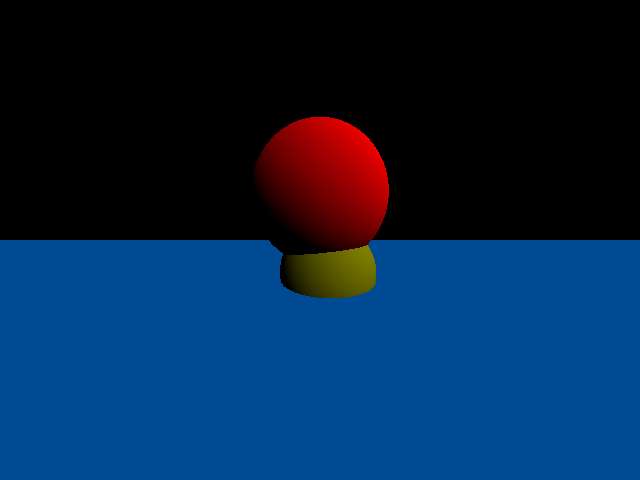
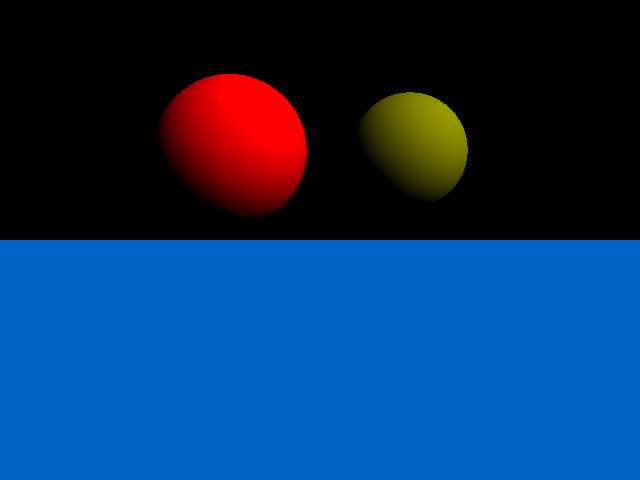
Correct perspective

diff --git a/raytracer/source/common/World.cpp b/raytracer/source/common/World.cpp
@@ -36,7 +36,7 @@ void World::RenderScene()
 {
     RGBColor pixel_color;
     Ray ray;
-    double cam_zw = 100.0;
+    double cam_zw = 800.0;
     double vp_zw = 0.0;
     double x, y;
     
@@ -72,12 +72,12 @@ void World::Build()
     sphere.SetCenter(glm::vec3(0.f, 0.f, 0.f));
     sphere.SetRadius(85.0);
     Sphere *msphere = new Sphere();
-    msphere->SetCenter(glm::vec3(0.f, -50.f, -50.f));
+    msphere->SetCenter(glm::vec3(-100.f, -100.f, -100.f));
     msphere->SetRadius(85.0);
     msphere->baseColor = RGBColor::red;
     this->AddObject(msphere);
     msphere = new Sphere();
-    msphere->SetCenter(glm::vec3(10.f, 40.f, -50.f));
+    msphere->SetCenter(glm::vec3(100.f, -100.f, -100.f));
     msphere->SetRadius(65.f);
     msphere->baseColor = RGBColor::yellow;
     this->AddObject(msphere);

diff --git a/raytracer/source/common/tracer/MultiObjects.cpp b/raytracer/source/common/tracer/MultiObjects.cpp
@@ -32,9 +32,8 @@ RGBColor MultiObjects::TraceRay(const Ray& ray) const
     
     if (obj_min != nullptr)
     {
-        glm::vec3 col = obj_min->GetBaseColor().GetRGBComponents()
-                        * glm::clamp(
-                                     glm::dot(sr_min.normal, world->GetLights()[0].GetDirection())
+        glm::vec3 col = glm::clamp(obj_min->GetBaseColor().GetRGBComponents() * 0.2f + obj_min->GetBaseColor().GetRGBComponents()
+                        * (glm::dot(sr_min.normal, world->GetLights()[0].GetDirection()))
                                      , 0.f, 1.f
                                     );
         return RGBColor(col);
